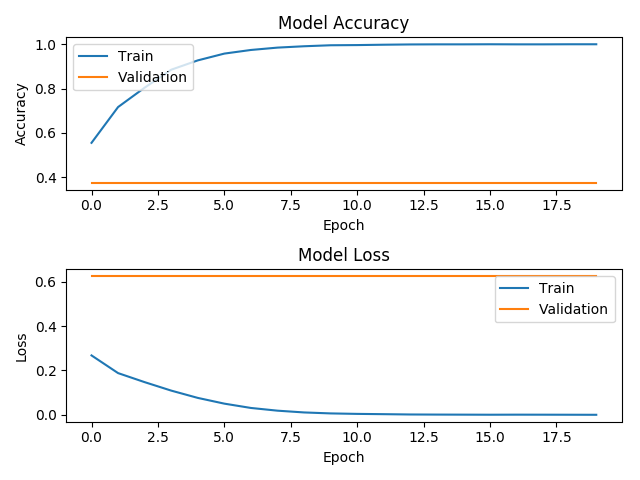
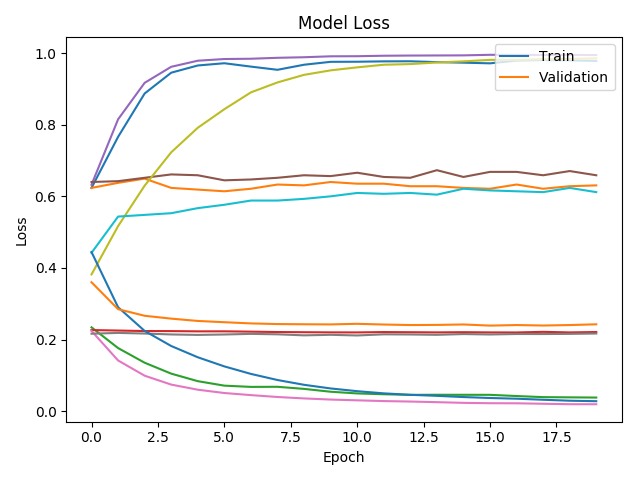
Added finishing touches

diff --git a/main.py b/main.py
@@ -1,20 +1,8 @@
-'''Trains a Siamese MLP on pairs of digits from the MNIST dataset.
-It follows Hadsell-et-al.'06 [1] by computing the Euclidean distance on the
-output of the shared network and by optimizing the contrastive loss (see paper
-for more details).
-# References
-- Dimensionality Reduction by Learning an Invariant Mapping
-    http://yann.lecun.com/exdb/publis/pdf/hadsell-chopra-lecun-06.pdf
-Gets to 97.2% test accuracy after 20 epochs.
-2 seconds per epoch on a Titan X Maxwell GPU
-'''
-from __future__ import absolute_import
-from __future__ import print_function
 import numpy as np
 
 from keras.models import Model, Sequential
-from keras.layers import Input, Lambda
-from keras.optimizers import RMSprop, Adam
+from keras.layers import Input, Lambda, Layer
+from keras.optimizers import Adam
 from keras import backend as K
 
 import matplotlib
@@ -23,47 +11,35 @@ import matplotlib.pyplot as plt
 
 from rnn.util import split, tokenizeData
 from rnn.rnn import create_base_network as rnn
-from ff.ff import create_base_network as ff
+from cnn.cnn import create_base_network as cnn
 from lstm.lstm import create_base_network as lstm
 
-
-num_classes = 10
 epochs = 20
 
 
-def euclidean_distance(vects):
-    x, y = vects
-    sum_square = K.sum(K.square(x - y), axis=1, keepdims=True)
-    return K.sqrt(K.maximum(sum_square, K.epsilon()))
+class ManDist(Layer):
+    """
+    Keras Custom Layer that calculates Manhattan Distance.
+    """
 
+    # initialize the layer, No need to include inputs parameter!
+    def __init__(self, **kwargs):
+        self.result = None
+        super(ManDist, self).__init__(**kwargs)
 
-def eucl_dist_output_shape(shapes):
-    shape1, shape2 = shapes
-    return (shape1[0], 1)
+    # input_shape will automatic collect input shapes to build layer
+    def build(self, input_shape):
+        super(ManDist, self).build(input_shape)
 
+    # This is where the layer's logic lives.
+    def call(self, x, **kwargs):
+        self.result = K.exp(-K.sum(K.abs(x[0] - x[1]), axis=1, keepdims=True))
+        return self.result
 
-def contrastive_loss(y_true, y_pred):
-    '''Contrastive loss from Hadsell-et-al.'06
-    http://yann.lecun.com/exdb/publis/pdf/hadsell-chopra-lecun-06.pdf
-    '''
-    margin = 1
-    square_pred = K.square(y_pred)
-    margin_square = K.square(K.maximum(margin - y_pred, 0))
-    return K.mean(y_true * square_pred + (1 - y_true) * margin_square)
+    # return output shape
+    def compute_output_shape(self, input_shape):
+        return K.int_shape(self.result)
 
-
-def compute_accuracy(y_true, y_pred):
-    '''Compute classification accuracy with a fixed threshold on distances.
-    '''
-
-    pred = np.ravel(y_pred) < 0.5
-    return np.mean(pred == y_true.astype(int))
-
-
-def accuracy(y_true, y_pred):
-    '''Compute classification accuracy with a fixed threshold on distances.
-    '''
-    return K.mean(K.equal(y_true, K.cast(y_pred < 0.5, y_true.dtype)))
 
 def generatePlots(name, base_network, x_train, x_test, y_train, y_test, input_shape):
 
@@ -76,32 +52,28 @@ def generatePlots(name, base_network, x_train, x_test, y_train, y_test, input_sh
     processed_a = base_network(input_a)
     processed_b = base_network(input_b)
 
-    distance = Lambda(euclidean_distance,
-                    output_shape=eucl_dist_output_shape)([processed_a, processed_b])
-
-    model = Model([input_a, input_b], distance)
+    malstm_distance = ManDist()([processed_a, processed_b])
+    model = Model([input_a, input_b], malstm_distance)
 
     # train
-    rms = RMSprop()
-    model.compile(loss=contrastive_loss, optimizer=rms, metrics=[accuracy])
+    rms = Adam()
+    model.compile(loss='mean_squared_error', optimizer=rms, metrics=['accuracy'])
     ff = model.fit([x_train['left'], x_train['right']], y_train,
-            batch_size=128,
+            batch_size=256,
             epochs=epochs,
             validation_split=0.10)
 
     model.save('./data/{0}.h5'.format(name))
 
     # Plot accuracy
-    plt.subplot(211)
-    plt.plot(ff.history['accuracy'])
-    plt.plot(ff.history['val_accuracy'])
-    plt.title('Model Accuracy')
+    plt.plot(ff.history['acc'])
+    plt.plot(ff.history['val_acc'])
+    plt.title('LSTM Model Accuracy')
     plt.ylabel('Accuracy')
     plt.xlabel('Epoch')
     plt.legend(['Train', 'Validation'], loc='upper left')
 
     # Plot loss
-    plt.subplot(212)
     plt.plot(ff.history['loss'])
     plt.plot(ff.history['val_loss'])
     plt.title('Model Loss')
@@ -112,21 +84,20 @@ def generatePlots(name, base_network, x_train, x_test, y_train, y_test, input_sh
     plt.tight_layout(h_pad=1.0)
     plt.savefig('./data/history-graph.png')
 
-    y_pred = model.predict([x_test['left'], x_test['right']])
-    te_acc = compute_accuracy(y_test, y_pred)
+    scores = model.evaluate([x_test['left'], x_test['right']], y_test, verbose=0)
+    print("%s: %.2f%%" % (model.metrics_names[1], scores[1]*100))
 
-    print('* Accuracy on test set: %0.2f%%' % (100 * te_acc))
 
 data = tokenizeData('./data/questions.csv')
 x_train, x_test, y_train, y_test = split(data['question1'], data['question2'], data['label'], 0.85)
 
 input_shape = x_train['right'].shape[1:]
 
-ffModel = ff(input_shape)
+cnnModel = cnn(input_shape)
 rnnModel = rnn(input_shape)
 lstmModel = lstm(input_shape)
 
-generatePlots('ffModel', ffModel, x_train, x_test, y_train, y_test, input_shape)
+generatePlots('cnnModel', cnnModel, x_train, x_test, y_train, y_test, input_shape)
 generatePlots('rnnModel', rnnModel, x_train, x_test, y_train, y_test, input_shape)
 generatePlots('lstmModel', lstmModel, x_train, x_test, y_train, y_test, input_shape)
 

diff --git a/rnn/util.py b/rnn/util.py
@@ -20,9 +20,9 @@ def tokenizeData(filename, saveToFile=False):
     data = np.array(data, dtype=str)
 
     # Use only first 5000 rows
-    labels = data[0:2, 5]
-    inputA = data[0:2, 3]
-    inputB = data[0:2, 4]
+    labels = data[0:5000, 5]
+    inputA = data[0:5000, 3]
+    inputB = data[0:5000, 4]
 
     # create the tokenizer
     t = Tokenizer()
@@ -56,6 +56,3 @@ def split(left, right, labels, size):
 
     return x_train, x_test, y_train, y_test
 
-# data = tokenizeData('../data/questions.csv')
-# print(data)
-# x_train, x_test, y_train, y_test = split(data['question1'], data['question2'], data['label'], 0.7)

diff --git a/cnn/cnn.py b/cnn/cnn.py
@@ -1,0 +1,16 @@
+from keras.models import Sequential
+from keras.layers import Embedding, Dense, Dropout, Conv1D, MaxPooling1D, Flatten
+
+
+def create_base_network(input_shape):
+    '''Base network to be shared (eq. to feature extraction).
+    '''
+
+    model = Sequential()
+    model.add(Embedding(10700, 100, input_length=50))
+    model.add(Conv1D(100, 5, activation='relu'))
+    model.add(MaxPooling1D(5))
+    model.add(Flatten())
+    model.add(Dense(units=100, activation='relu'))
+
+    return model

diff --git a/rnn/rnn.py b/rnn/rnn.py
@@ -8,6 +8,6 @@ def create_base_network(input_shape):
 
     model = Sequential()
     model.add(Embedding(10700, 100, input_length=50))
-    model.add(SimpleRNN(10, return_sequences=True))
+    model.add(SimpleRNN(10))
 
     return model
